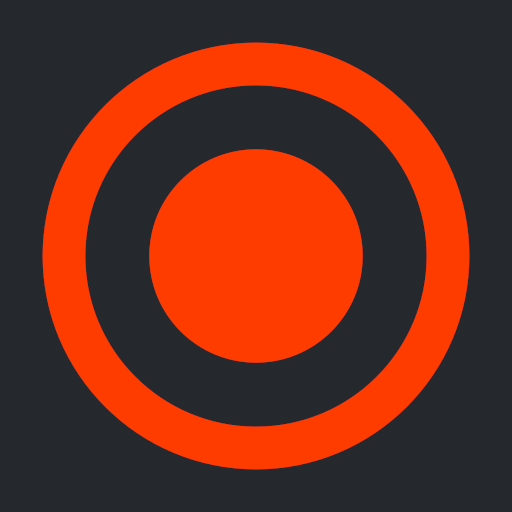
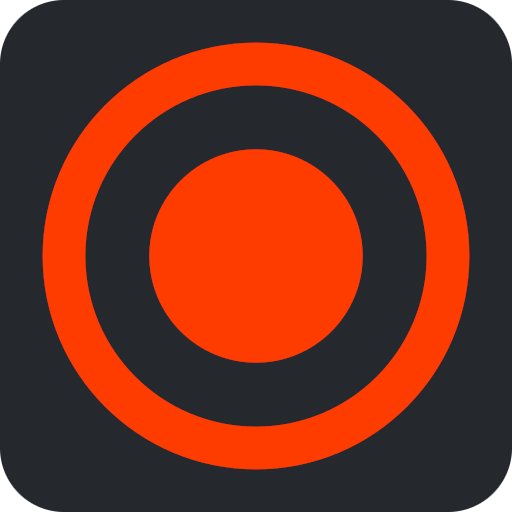
chore: minor name re-brand, round corners of images

diff --git a/video-player/src/modules/Player.svelte b/video-player/src/modules/Player.svelte
@@ -45,7 +45,7 @@
           let lastmeta = null
           let count = 0
 
-          function handleFrames(now, metadata) {
+          function handleFrames (now, metadata) {
             if (count) {
               // resolve on 2nd frame, 1st frame might be a cut-off
               if (lastmeta) {
@@ -96,16 +96,16 @@
     })
   }
 
-  //document.fullscreenElement isn't reactive
+  // document.fullscreenElement isn't reactive
   document.addEventListener('fullscreenchange', () => {
     isFullscreen = !!document.fullscreenElement
   })
 
-  function handleHeaders() {
+  function handleHeaders () {
     subHeaders = subs?.headers
   }
 
-  function updateFiles(files) {
+  function updateFiles (files) {
     if (files && files.length) {
       videos = files.filter(file => videoRx.test(file.name))
       if (videos?.length) {
@@ -121,7 +121,7 @@
     }
   }
 
-  async function handleCurrent(file) {
+  async function handleCurrent (file) {
     if (file) {
       if (thumbnailData.video?.src) URL.revokeObjectURL(video?.src)
       Object.assign(thumbnailData, {
@@ -148,13 +148,13 @@
     if (!subs) initSubs()
   })
 
-  function initSubs() {
+  function initSubs () {
     if (current && video) {
       if (subs) subs.destroy()
       subs = new Subtitles(video, files, current, handleHeaders)
     }
   }
-  function cycleSubtitles() {
+  function cycleSubtitles () {
     if (current && subs?.headers) {
       const tracks = subs.headers.filter(header => header)
       const index = tracks.indexOf(subs.headers[subs.current]) + 1
@@ -164,43 +164,43 @@
 
   let subDelay = 0
   $: updateDelay(subDelay)
-  function updateDelay(delay) {
+  function updateDelay (delay) {
     if (subs?.renderer) subs.renderer.timeOffset = delay
   }
 
   let currentTime = 0
   $: progress = currentTime / duration
   $: targetTime = (!paused && currentTime) || targetTime
-  function handleMouseDown({ target }) {
+  function handleMouseDown ({ target }) {
     wasPaused = paused
     paused = true
     targetTime = target.value * duration
   }
-  function handleMouseUp() {
+  function handleMouseUp () {
     paused = wasPaused
     currentTime = targetTime
   }
-  function handleProgress({ target }) {
+  function handleProgress ({ target }) {
     targetTime = target.value * duration
   }
 
-  function playPause() {
+  function playPause () {
     paused = !paused
   }
-  function toggleMute() {
+  function toggleMute () {
     muted = !muted
   }
-  function playNext() {
+  function playNext () {
     handleCurrent(videos[(videos.indexOf(current) + 1) % videos.length])
   }
-  function playLast() {
+  function playLast () {
     const index = videos.indexOf(current)
     handleCurrent(videos[index === 0 ? videos.length - 1 : index - 1])
   }
-  function toggleFullscreen() {
+  function toggleFullscreen () {
     document.fullscreenElement ? document.exitFullscreen() : container.requestFullscreen()
   }
-  function seek(time) {
+  function seek (time) {
     if (time === 85 && currentTime < 10) {
       targetTime = currentTime = 90
     } else if (time === 85 && duration - currentTime < 90) {
@@ -209,13 +209,13 @@
       targetTime = currentTime += time
     }
   }
-  function forward() {
+  function forward () {
     seek(2)
   }
-  function rewind() {
+  function rewind () {
     seek(-2)
   }
-  function selectAudio(id) {
+  function selectAudio (id) {
     if (id !== undefined) {
       for (const track of video.audioTracks) {
         track.enabled = track.id === id
@@ -223,7 +223,7 @@
       seek(-0.5) // stupid fix because video freezes up when chaging tracks
     }
   }
-  function toggleCast() {
+  function toggleCast () {
     if (video.readyState) {
       if (presentationConnection) {
         presentationConnection?.terminate()
@@ -232,7 +232,7 @@
       }
     }
   }
-  function togglePopout() {
+  function togglePopout () {
     if (video.readyState) {
       if (!subs?.renderer) {
         if (video !== document.pictureInPictureElement) {
@@ -370,7 +370,7 @@
     }
   })
 
-  function getBurnIn(noSubs) {
+  function getBurnIn (noSubs) {
     const canvas = document.createElement('canvas')
     const context = canvas.getContext('2d')
     let loop = null
@@ -390,7 +390,7 @@
     return { stream: canvas.captureStream(), destroy }
   }
 
-  function initCast(event) {
+  function initCast (event) {
     // these quality settings are likely to make cast overheat, oh noes!
     let peer = new Peer({
       polite: true,
@@ -447,12 +447,12 @@
     }
   }
 
-  function immersePlayer() {
+  function immersePlayer () {
     immersed = true
     immerseTimeout = undefined
   }
 
-  function resetImmerse() {
+  function resetImmerse () {
     if (immerseTimeout) {
       clearTimeout(immerseTimeout)
     } else {
@@ -461,7 +461,7 @@
     immerseTimeout = setTimeout(immersePlayer, 8 * 1000)
   }
 
-  function hideBuffering() {
+  function hideBuffering () {
     if (bufferTimeout) {
       clearTimeout(bufferTimeout)
       bufferTimeout = null
@@ -469,7 +469,7 @@
     }
   }
 
-  function showBuffering() {
+  function showBuffering () {
     bufferTimeout = setTimeout(() => {
       buffering = true
       resetImmerse()
@@ -480,7 +480,7 @@
     playbackRate: 1,
     position: Math.max(0, Math.min(duration || 0, currentTime || 0))
   })
-  async function mediaChange(current, image) {
+  async function mediaChange (current, image) {
     if (current) {
       const { release_group, anime_title, episode_number, episode_title } = await anitomyscript(current.name)
       // honestly, this is made for anime, but works fantastic for everything else.
@@ -488,18 +488,18 @@
       if ('mediaSession' in navigator) {
         const metadata = image
           ? new MediaMetadata({
-              title: name || 'Video Player',
-              artwork: [
-                {
-                  src: image,
-                  sizes: '256x256',
-                  type: 'image/jpg'
-                }
-              ]
-            })
+            title: name || 'Video Player',
+            artwork: [
+              {
+                src: image,
+                sizes: '256x256',
+                type: 'image/jpg'
+              }
+            ]
+          })
           : new MediaMetadata({
-              title: name || 'Video Player'
-            })
+            title: name || 'Video Player'
+          })
         if (release_group) metadata.artist = release_group
         navigator.mediaSession.metadata = metadata
       }
@@ -517,7 +517,7 @@
   }
   let stats = null
   let requestCallback = null
-  function toggleStats() {
+  function toggleStats () {
     if ('requestVideoFrameCallback' in HTMLVideoElement.prototype) {
       if (requestCallback) {
         stats = null
@@ -531,7 +531,7 @@
       }
     }
   }
-  async function handleStats(now, metadata) {
+  async function handleStats (now, metadata) {
     if (stats) {
       stats = {
         fps: await video.fps,
@@ -545,8 +545,8 @@
       setTimeout(() => video.requestVideoFrameCallback(handleStats), 200)
     }
   }
-  function getBufferHealth(time) {
-    for (let index = video.buffered.length; index--; ) {
+  function getBufferHealth (time) {
+    for (let index = video.buffered.length; index--;) {
       if (time < video.buffered.end(index) && time > video.buffered.start(index)) {
         return parseInt(video.buffered.end(index) - time)
       }
@@ -554,7 +554,7 @@
   }
   let fast = false
   let successCount = 0
-  async function checkSpeed() {
+  async function checkSpeed () {
     if (!fast && (current instanceof File || current instanceof URLFile) && duration) {
       const byterate = current.size / duration
       const currBps = speed()
@@ -584,13 +584,13 @@
   let hover = null
   let hoverTime = 0
   let hoverOffset = 0
-  function handleHover({ offsetX, target }) {
+  function handleHover ({ offsetX, target }) {
     hoverOffset = offsetX / target.clientWidth
     hoverTime = duration * hoverOffset
     hover.style.setProperty('left', hoverOffset * 100 + '%')
     thumbnail = thumbnailData.thumbnails[Math.floor(hoverTime / thumbnailData.interval)] || ' '
   }
-  function createThumbnail(vid = video) {
+  function createThumbnail (vid = video) {
     if (vid?.readyState >= 2 && (current instanceof File || current instanceof URLFile)) {
       const index = Math.floor(vid.currentTime / thumbnailData.interval)
       if (!thumbnailData.thumbnails[index]) {
@@ -602,14 +602,14 @@
     }
   }
   $: initThumbnails(200 / (videoWidth / videoHeight))
-  function initThumbnails(height) {
+  function initThumbnails (height) {
     if (!isNaN(height)) {
       thumbnailData.interval = duration / 300 < 5 ? 5 : duration / 300
       thumbnailData.canvas.height = height
     }
   }
 
-  function finishThumbnails() {
+  function finishThumbnails () {
     const t0 = performance.now()
     const video = document.createElement('video')
     let index = 0
@@ -650,7 +650,7 @@
   let innerWidth, innerHeight, videoWidth, videoHeight
   let menubarOffset = 0
   $: calcMenubarOffset(innerWidth, innerHeight, videoWidth, videoHeight, isStandalone)
-  function calcMenubarOffset(innerWidth, innerHeight, videoWidth, videoHeight, isStandalone) {
+  function calcMenubarOffset (innerWidth, innerHeight, videoWidth, videoHeight, isStandalone) {
     // outerheight resize and innerheight resize is mutual, additionally update on metadata and app state change
     if (isStandalone && videoWidth && videoHeight) {
       // so windows is very dumb, and calculates windowed mode as if it was window XP, with the old bars, but not when maximised

diff --git a/video-player/public/index.html b/video-player/public/index.html
@@ -11,9 +11,9 @@
 	<link href="https://fonts.googleapis.com/icon?family=Material+Icons" rel="stylesheet">
 	<link rel="manifest" href="./site.webmanifest">
 
-	<meta property="og:title" content="Video Player">
+	<meta property="og:title" content="Haven Video Player">
 	<meta property="og:url" content="https://haven.pages.dev/video-player/public/">
-	<meta property="og:description" content="Simple and Powerful Video Player">
+	<meta property="og:description" content="Fast and powerful video player which can stream any local or remote video files, render all known subtitle formats, even in PiP or while Casting, allow for rapid and simple rebinding of keybinds, all in a simple to navigate interface, which has anything you'd expect from a video player and more, like seek preview thumbnails.">
 	<meta property="og:type" content="video.other">
 	<meta property="og:image" content="https://haven.pages.dev/video-player/public/128.png">
 	<meta property="og:video">

diff --git a/img-viewer/public/index.html b/img-viewer/public/index.html
@@ -11,9 +11,9 @@
 	<link href="https://fonts.googleapis.com/icon?family=Material+Icons" rel="stylesheet">
 	<link rel="manifest" href="./site.webmanifest">
 
-	<meta property="og:title" content="Image Viewer">
+	<meta property="og:title" content="Haven Image Viewer">
 	<meta property="og:url" content="https://haven.pages.dev/img-viewer/public/">
-	<meta property="og:description" content="Simple and Fast Image Viewer">
+	<meta property="og:description" content="Simple image viewer with built-in support for comparisons of images of variable resolutions. Features a toggle nearest neighbor scaling and no scaling for either very accurate image comparisons, or non-blurry pixel art viewing. Features basic image manipulation, like translation, rotation and transforms">
 	<meta property="og:type" content="article">
 	<meta property="twitter:image">
 	<meta name="twitter:card" content="summary_large_image" />

diff --git a/torrent-client/public/index.html b/torrent-client/public/index.html
@@ -11,9 +11,9 @@
   <link href="https://fonts.googleapis.com/icon?family=Material+Icons" rel="stylesheet">
   <link rel="manifest" href="./site.webmanifest">
 
-	<meta property="og:title" content="Torrent Client">
+	<meta property="og:title" content="Haven Torrent Client">
   <meta property="og:url" content="https://haven.pages.dev/torrent-client/public/">
-  <meta property="og:description" content="Simple and Fast Torrent Client">
+  <meta property="og:description" content="Very powerful BitTorrent client which allows you to download existing or create new torrents directly to/from your drive, and stream them real-time to other Haven apps while they are still being downloaded, even across multiple sessions without loosing any download progress.">
   <meta property="og:type" content="webapp">
   <meta property="og:image" content="./128.png">
 

diff --git a/audio-player/public/index.html b/audio-player/public/index.html
@@ -11,9 +11,9 @@
 	<link href="https://fonts.googleapis.com/icon?family=Material+Icons" rel="stylesheet">
 	<link rel="manifest" href="./site.webmanifest">
 
-	<meta property="og:title" content="Audio Player">
+	<meta property="og:title" content="Haven Audio Player">
 	<meta property="og:url" content="https://haven.pages.dev/audio-player/public/">
-	<meta property="og:description" content="Simple and Fast Audio Player">
+	<meta property="og:description" content="Powerful audio player which can play any local or remote audio files, parse their metadata and display it all in a simple to use interface. Supports Casting, MediaSession, ID3 tags and much more.">
 	<meta property="og:type" content="audio.other">
 	<meta property="og:image" content="https://haven.pages.dev/audio-player/public/128.png">
 	<meta property="og:audio">

diff --git a/screen-recorder/public/index.html b/screen-recorder/public/index.html
@@ -11,9 +11,9 @@
   <link href="https://fonts.googleapis.com/icon?family=Material+Icons" rel="stylesheet">
   <link rel="manifest" href="./site.webmanifest">
 
-	<meta property="og:title" content="Screen Recorder">
+	<meta property="og:title" content="Haven Screen Recorder">
   <meta property="og:url" content="https://haven.pages.dev/screen-recorder/public/">
-  <meta property="og:description" content="Simple and Powerful Screen Recorder">
+  <meta property="og:description" content="Fully fledged media recording app, which allows you to save video as it's being recorded directly to your drive, and change every little option of said recording process, be that bitrate, codecs or audio recording.">
   <meta property="og:type" content="image.other">
   <meta property="og:image" content="./128.png">
 

diff --git a/manga-reader/public/index.html b/manga-reader/public/index.html
@@ -11,7 +11,7 @@
   <link href="https://fonts.googleapis.com/icon?family=Material+Icons" rel="stylesheet">
   <link rel="manifest" href="./site.webmanifest">
 
-	<meta property="og:title" content="Manga Reader">
+	<meta property="og:title" content="Haven Manga Reader">
   <meta property="og:url" content="https://haven.pages.dev/reader/public/">
   <meta property="og:description" content="Simple and Fast Manga Reader">
   <meta property="og:type" content="image.other">
